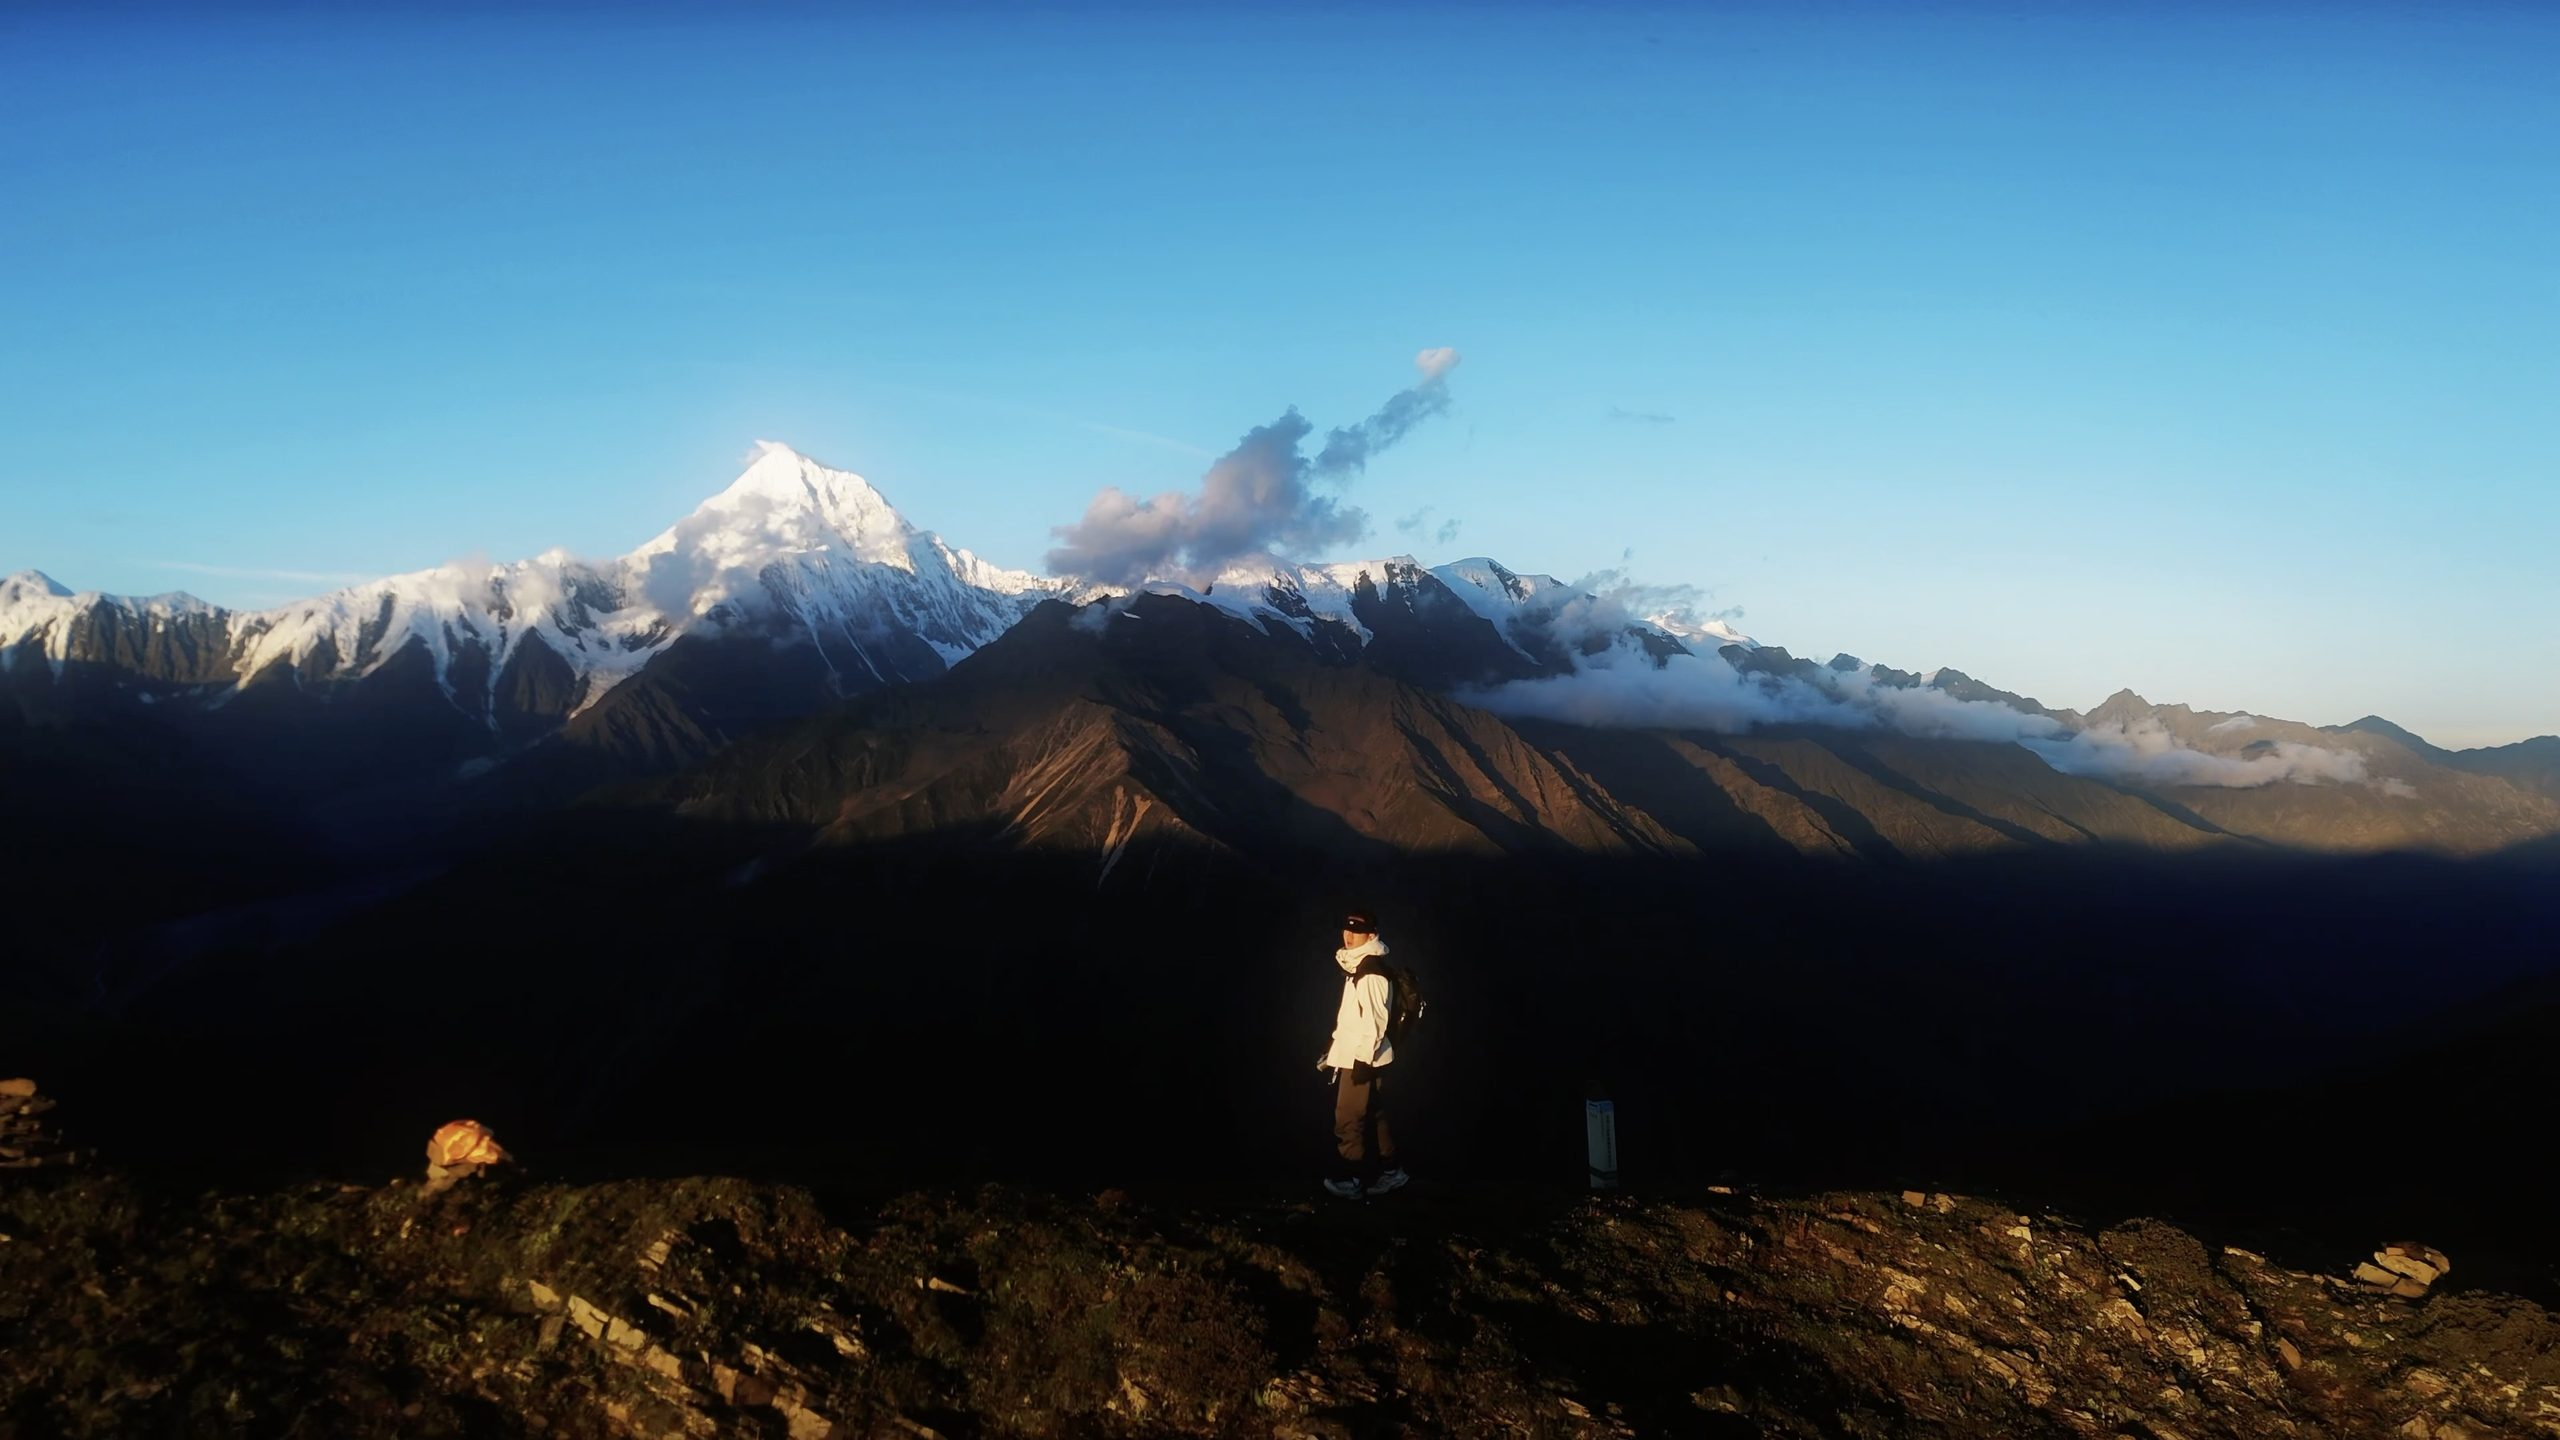
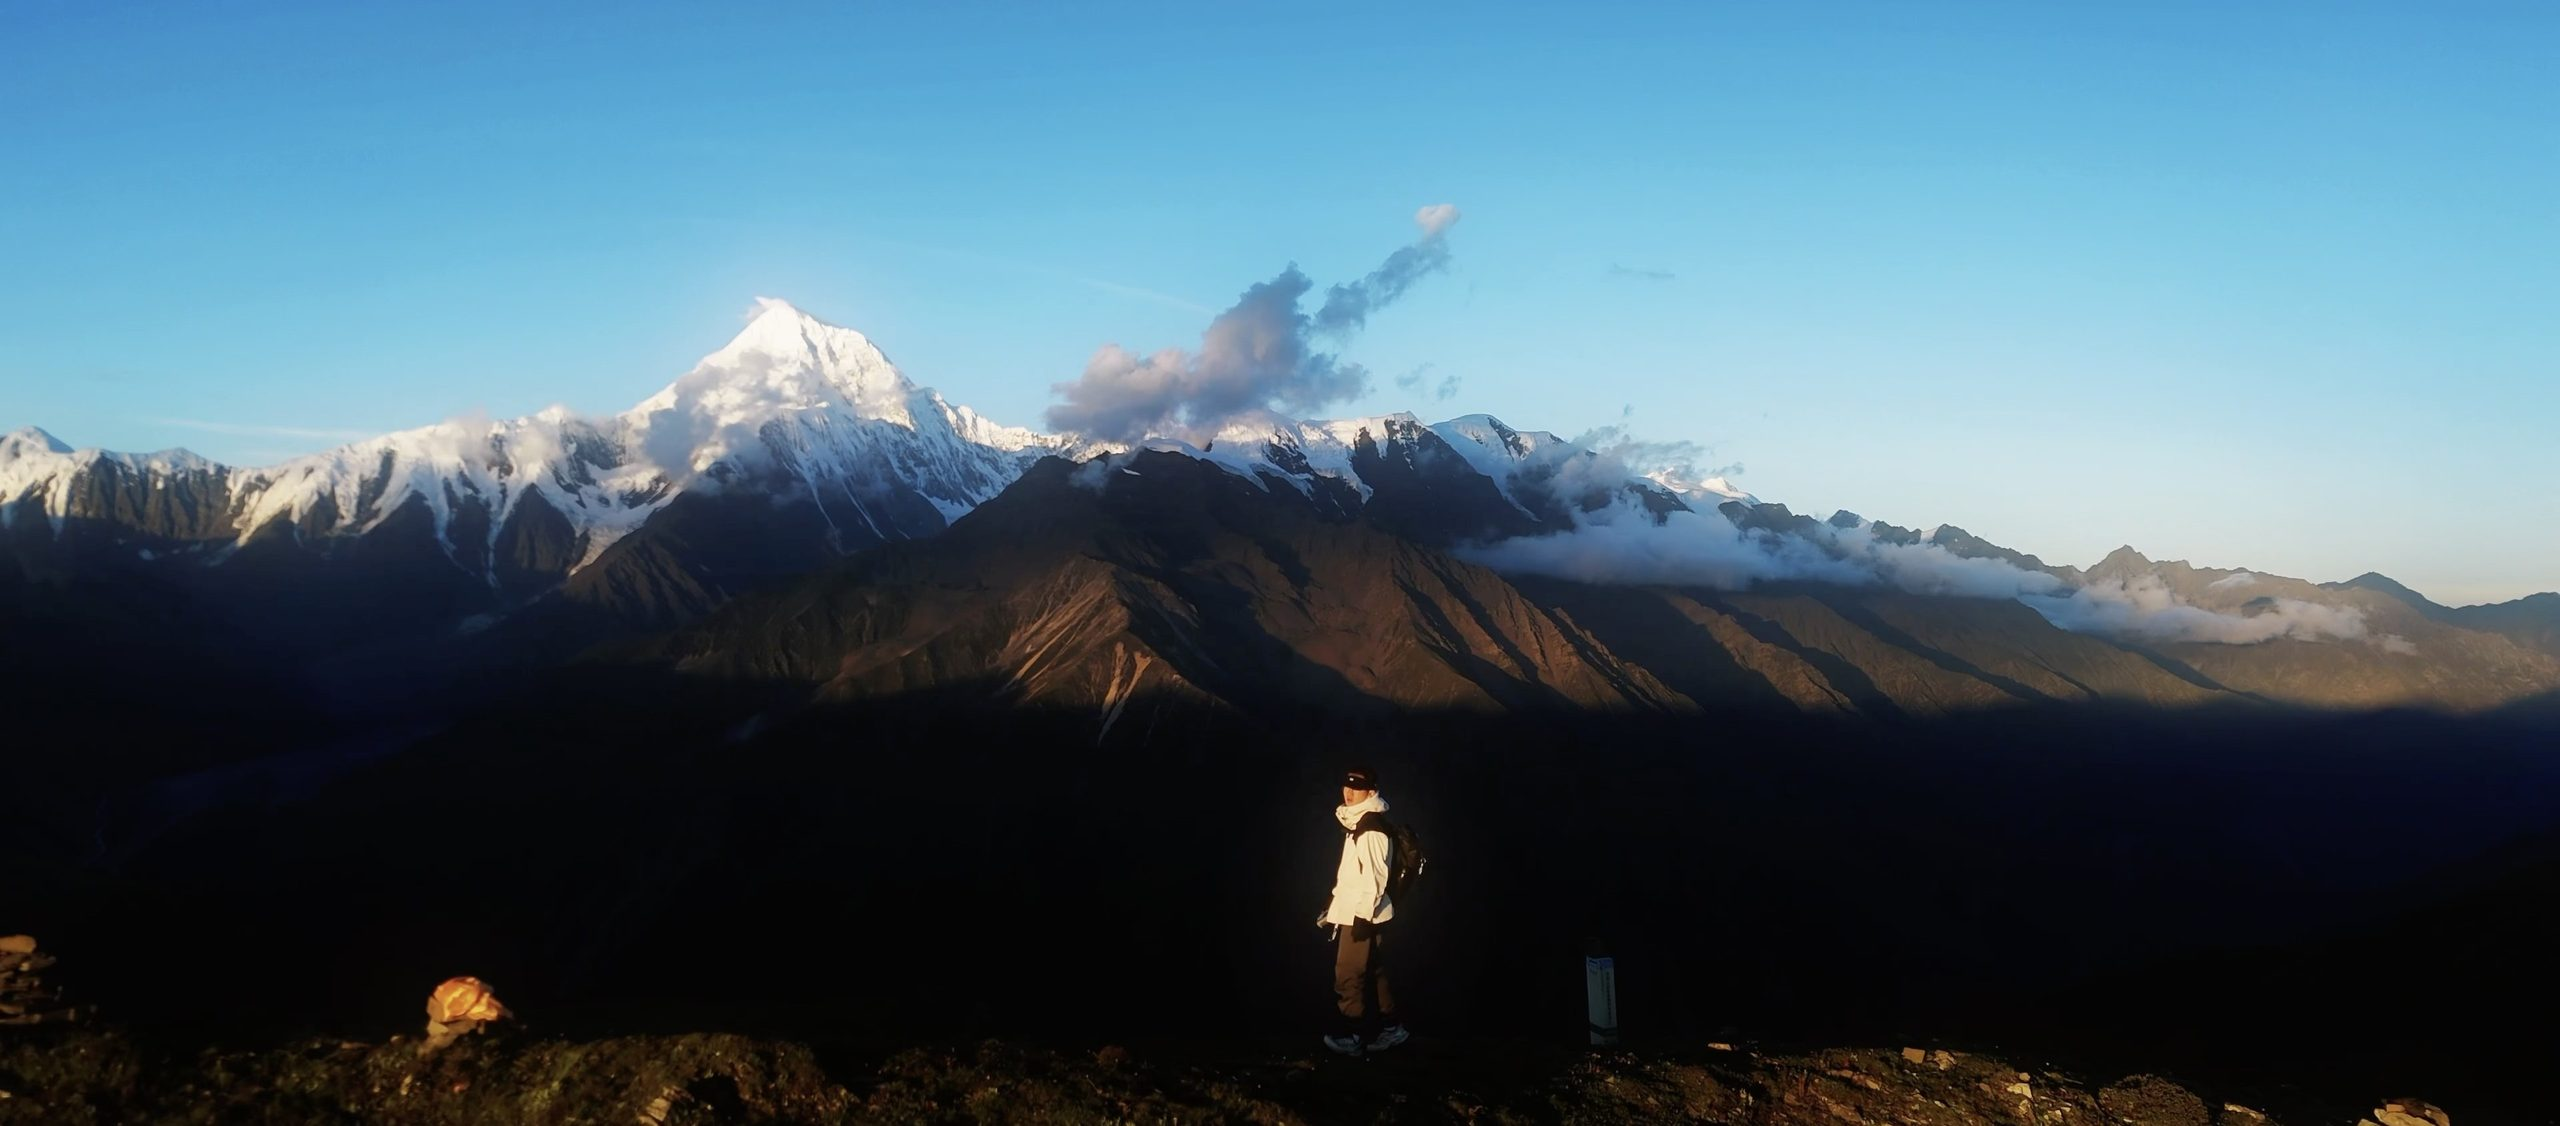
Video natural 16:9 ratio, widen thumbs, lighter bg gradient, show bg higher

diff --git a/index.html b/index.html
@@ -108,10 +108,18 @@
       pointer-events: none;
       background:
         linear-gradient(to bottom,
-          color-mix(in srgb, var(--bg) 42%, transparent) 0%,
-          color-mix(in srgb, var(--bg) 8%, transparent) 40%,
-          var(--bg) 94%),
-        url('images/bg.jpg') center top / cover no-repeat;
+          color-mix(in srgb, var(--bg) 16%, transparent) 0%,
+          transparent 34%,
+          var(--bg) 88%),
+        url('images/bg.jpg') top center / cover no-repeat;
+    }
+    html[data-theme="dark"] body::before {
+      background:
+        linear-gradient(to bottom,
+          color-mix(in srgb, var(--bg) 40%, transparent) 0%,
+          color-mix(in srgb, var(--bg) 12%, transparent) 34%,
+          var(--bg) 88%),
+        url('images/bg.jpg') top center / cover no-repeat;
     }
 
     a { color: var(--accent); text-decoration: none; }
@@ -397,8 +405,8 @@
     .exp-detail p:last-child { margin-bottom: 0; }
     .exp-thumb {
       flex-shrink: 0;
-      width: 96px;
-      height: 96px;
+      width: 160px;
+      height: 90px;
       object-fit: cover;
       border-radius: 12px;
       border: 1px solid var(--border);
@@ -569,7 +577,7 @@
       .nav-links { gap: 14px; }
       .exp-item { flex-wrap: wrap; }
       .exp-logo-wrap { width: 110px; }
-      .exp-thumb { width: 72px; height: 72px; }
+      .exp-thumb { width: 132px; height: 74px; }
     }
   </style>
 </head>
